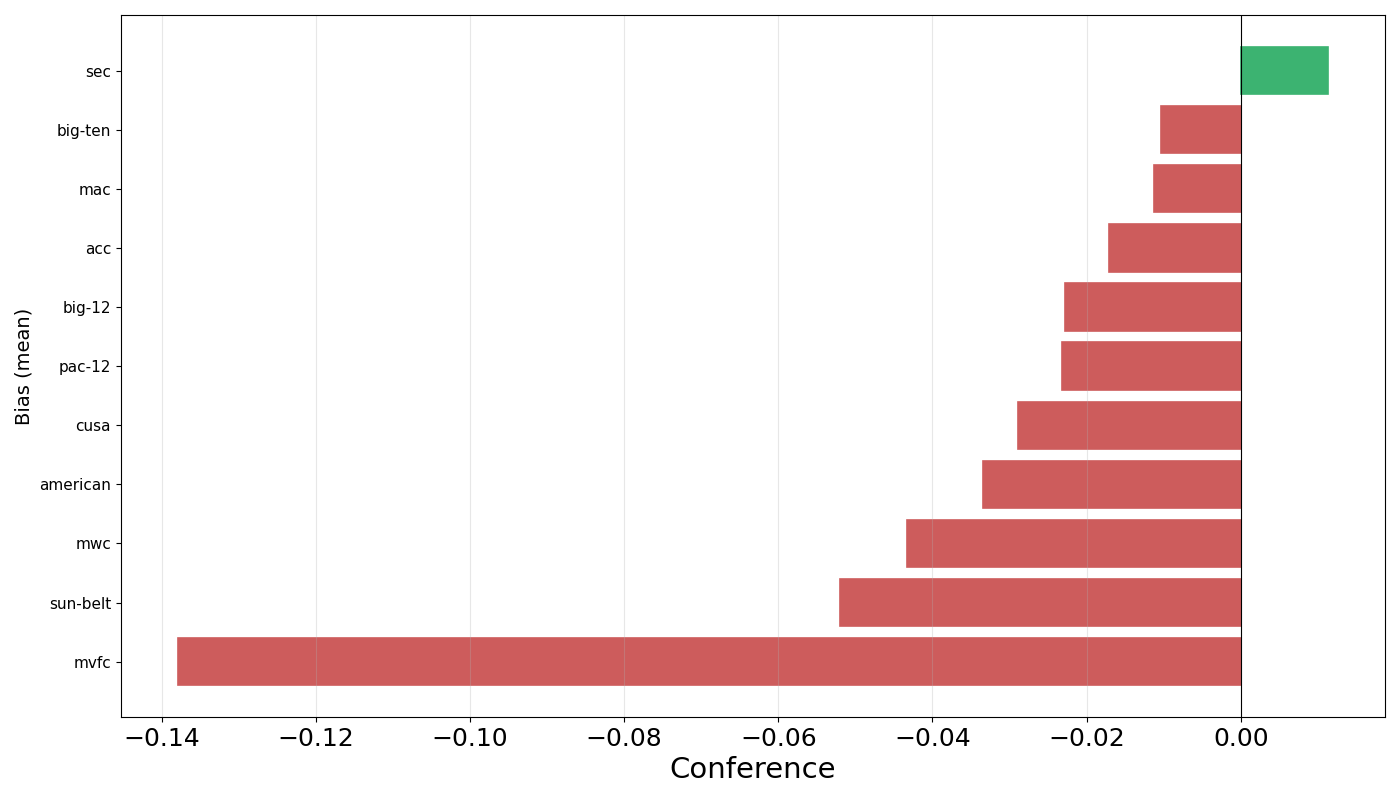
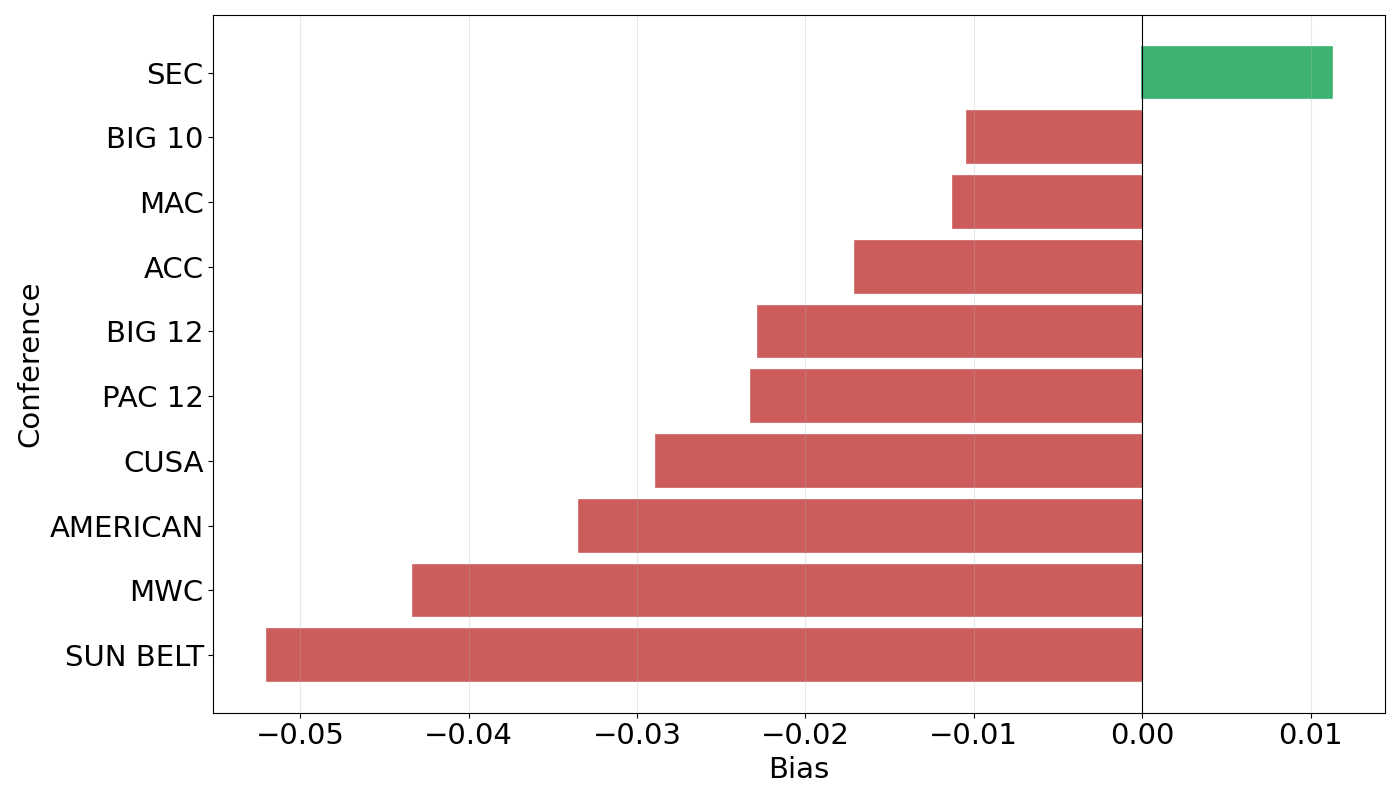
conference bias changes

diff --git a/scripts/create_visuals.py b/scripts/create_visuals.py
@@ -163,7 +163,23 @@ def create_svc_graph(input_csv: str):
     df = df.reset_index(drop=True)
     
     df_grouped = df.groupby('Conference').agg({'bias1-a': 'mean'}).reset_index()
+    # df_grouped["Conference" == 'SEC'] = df_grouped[df_grouped["Conference"] == 'sec']
+    # df_grouped['BIG 10'] = df_grouped[df_grouped["Conference"] == 'big-ten']
+    # df_grouped['MAC'] = df_grouped[df_grouped["Conference"] == 'mac']
+    # df_grouped['ACC'] = df_grouped['acc']
+    # df_grouped['BIG 12'] = df_grouped['big-12']
+    # df_grouped['PAC 12'] = df_grouped['pac-12']
+    # df_grouped['CUSA'] = df_grouped['cusa']
+    # df_grouped['AMERICAN'] = df_grouped['american']
+    # df_grouped['MWC'] = df_grouped['mwc']
+    # df_grouped['SUN BELT'] = df_grouped['sun-belt']
+
     df_grouped = df_grouped.sort_values('bias1-a')  # sort by bias value
+    # df_grouped = df_grouped[df_grouped['Conference'] != "mvfc" & df_grouped['Conference'] != "sec" & df_grouped['Conference'] != "big-ten" & df_grouped['Conference'] != "mac" & df_grouped['Conference'] != "acc" & df_grouped['Conference'] != "big-12" & df_grouped['Conference'] != "pac-12" & df_grouped['Conference'] != "cusa" & df_grouped['Conference'] != "american" & df_grouped['Conference'] != "mwc" & df_grouped['Conference'] != "sun-belt"] 
+    df_grouped = df_grouped[df_grouped['Conference'] != "mvfc"]
+    print(df_grouped)
+    y_ticks = ['SEC', 'BIG 10', 'MAC', 'ACC', 'BIG 12', 'PAC 12', 'CUSA', 'AMERICAN', 'MWC', 'SUN BELT']
+    values = [9, 8, 7, 6, 5, 4, 3 ,2, 1, 0]
     
     plt.figure(figsize=(14, 8))
     
@@ -177,11 +193,11 @@ def create_svc_graph(input_csv: str):
             bar.set_color('mediumseagreen')
     
     plt.axvline(x=0, color='black', linestyle='-', linewidth=0.8)
-    
-    plt.xticks(fontsize=18) 
-    plt.yticks(fontsize=11) 
-    plt.xlabel('Conference', fontsize=21)
-    plt.ylabel('Bias (mean)', fontsize=14)
+
+    plt.xticks(fontsize=21) 
+    plt.yticks(values, y_ticks, fontsize=21) 
+    plt.ylabel('Conference', fontsize=21)
+    plt.xlabel('Bias', fontsize=21)
     plt.grid(True, alpha=0.3, axis='x')
     plt.tight_layout()
     plt.savefig('conference_bias.png')
@@ -288,4 +304,4 @@ def graph_weekly_mean_bias_boxplot(input_csv: str):
 
 if __name__ == "__main__":
     #graph_weekly_bias_std("/Users/albertbogdan/IML-FALL2025---Voter-Bias/output_data/cfb/summary_stats/cfb_ss_week.csv")
-    create_svc_graph("/Users/albertbogdan/IML-FALL2025---Voter-Bias/voter_conference_biases.csv")
+    create_svc_graph("/Users/albertbogdan/IML-FALL2025---Voter-Bias/output_data/cfb/average_biases/voter_conference_biases.csv")
